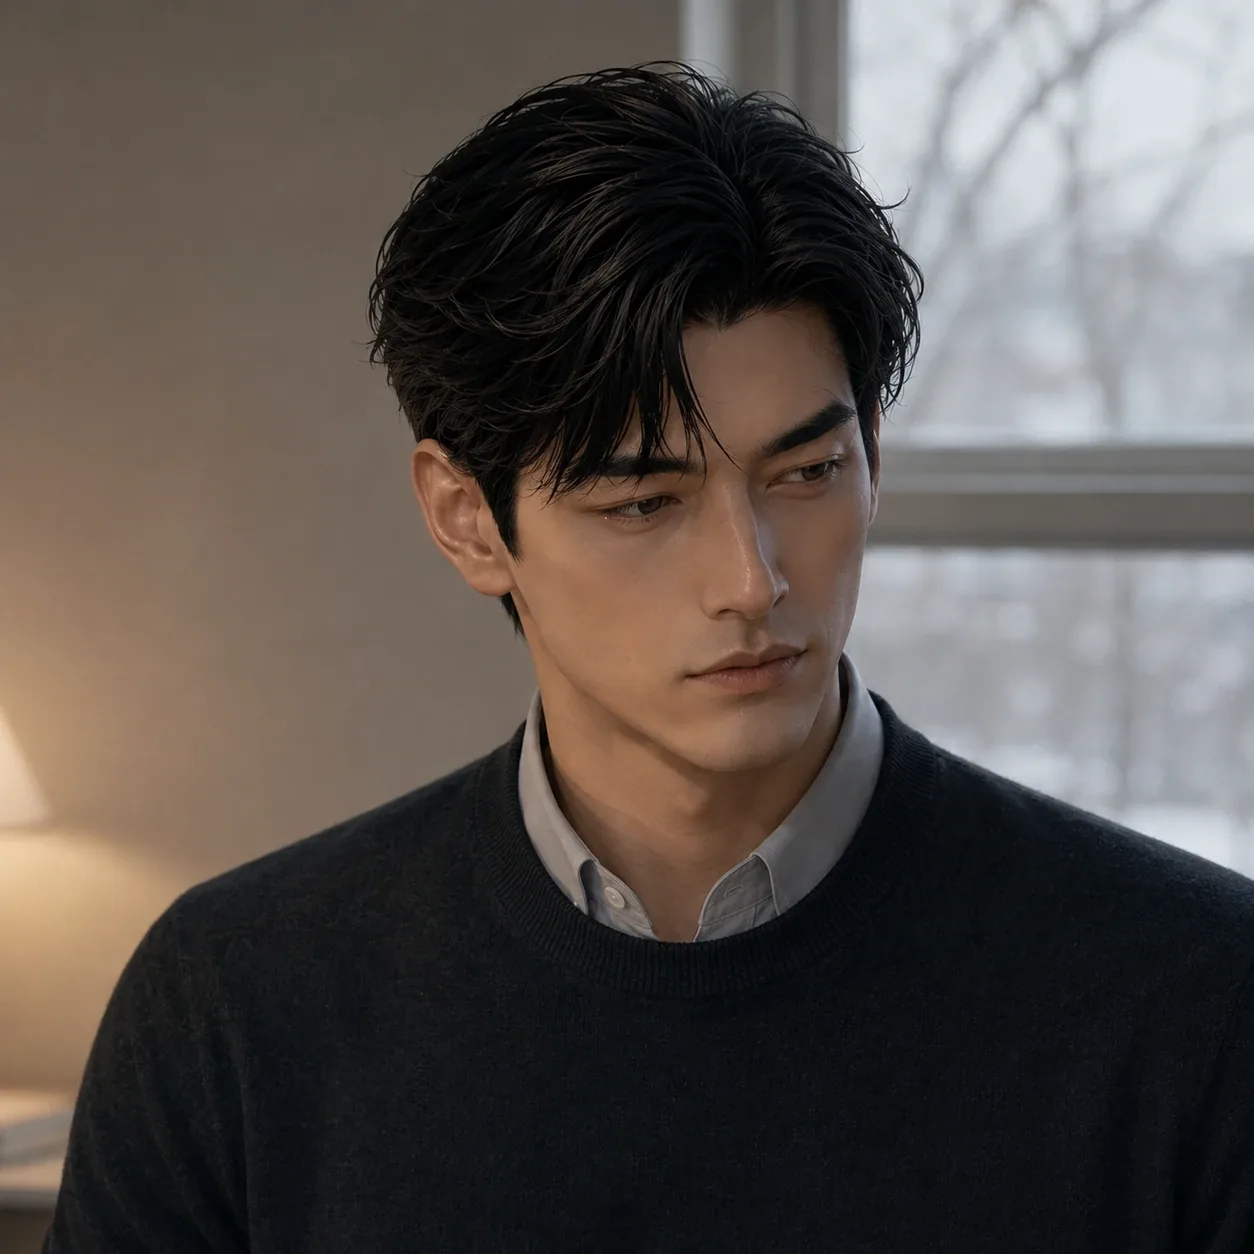
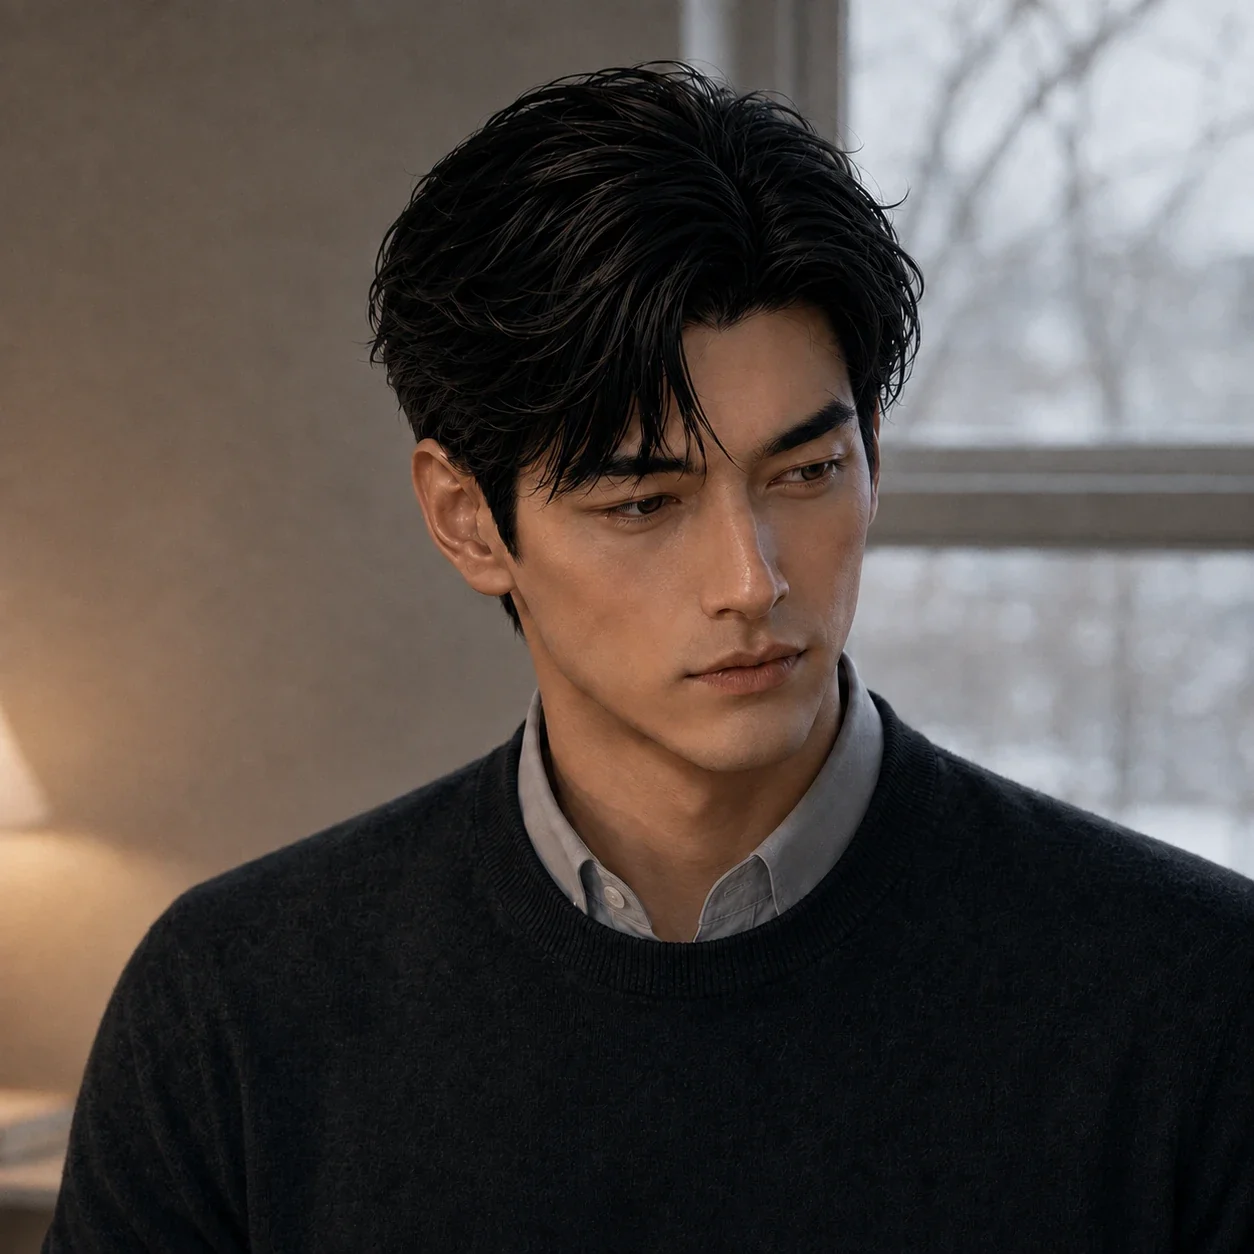
재언 프사를 바꾼다
파일명이 같아서 AV_V를 v4로 올린다. 직전 커밋에서 민현 프사 때문에
v3으로 올렸는데, 그게 아직 퍼지기 전이라 v3에 얹지 않고 한 칸 더 올렸다.

Claude-Session: https://claude.ai/code/session_01437N5arYTDRea9BKubBq2J

diff --git a/app/App.tsx b/app/App.tsx
@@ -132,7 +132,7 @@ function demoReply(room:string, lastText?:string) {
 
 /* 프사를 교체해도 파일명이 같으면 앱의 이미지 캐시가 옛 사진을 계속 쓴다.
    사진을 갈아끼울 때마다 이 숫자를 올린다. */
-const AV_V = '?v=3';
+const AV_V = '?v=4';
 const face = (id:string) => IMG + id + '-profile.webp' + AV_V;
 
 /* 계산해서 만든 퍼센트 문자열. 그냥 (n*100)+'%'로 쓰면 타입이 string으로 넓어져

diff --git a/index.html b/index.html
@@ -706,7 +706,7 @@ const API = "https://null-api.re-moonroom.workers.dev/";
 
 /* 프사를 교체해도 파일명이 같으면 브라우저·CDN이 옛 이미지를 계속 쓴다.
    사진을 갈아끼울 때마다 이 숫자를 올린다. */
-const AV_V = "?v=3";
+const AV_V = "?v=4";
 
 /* 캐릭터 / 방 정의 */
 const CHARS = {
